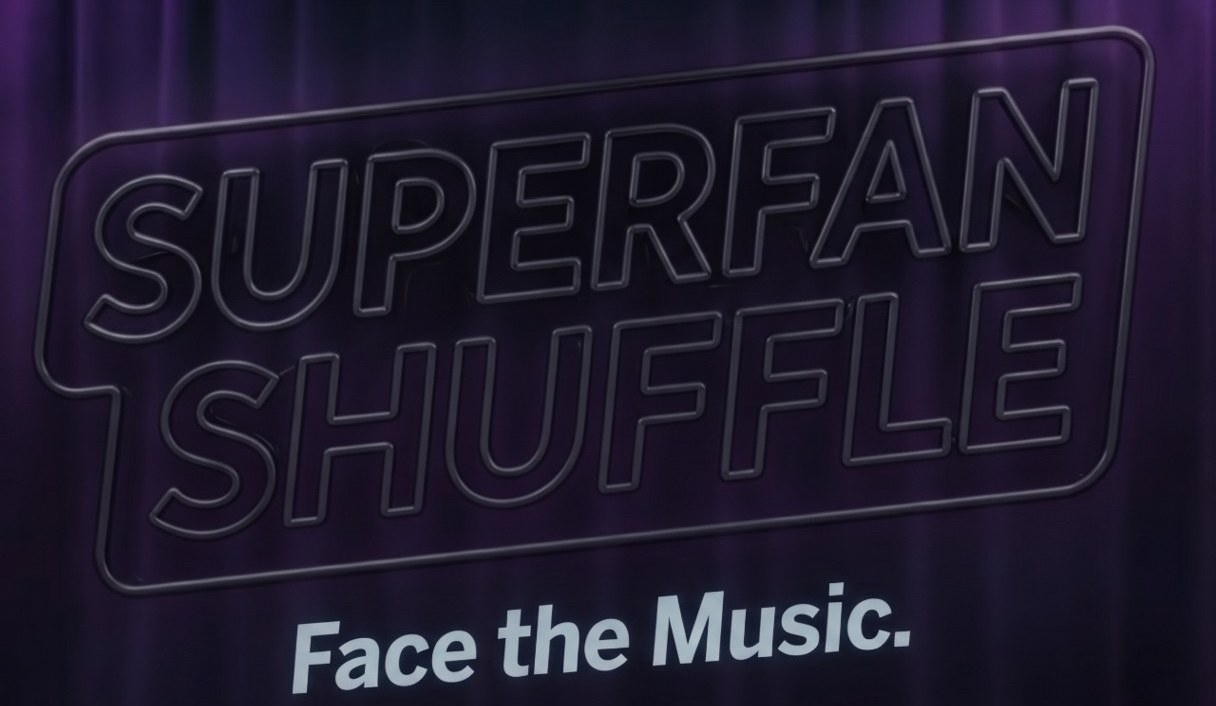
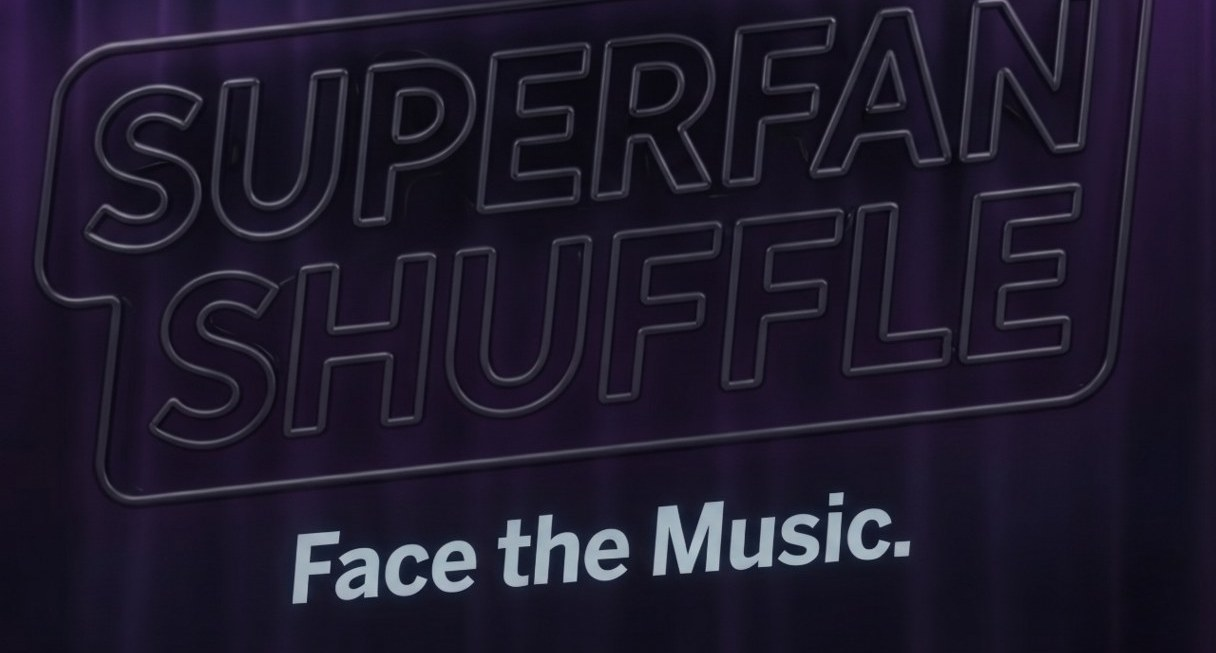
home: shorten neon header further (~32% vs original) — trim the large empty curtain ABOVE the box, keep tagline breathing room, thin bottom fade so 'Face the Music' isn't crowded

diff --git a/index.html b/index.html
@@ -22,11 +22,11 @@ body{overflow-y:auto;padding:0 0 80px}
 /* dark chrome header framing the lighter content */
 header{padding:16px 16px 8px;text-align:center;background:var(--chrome);box-shadow:0 6px 18px rgba(0,0,0,.35)}
 header#topbar{padding:0;overflow:hidden;position:relative;text-align:center;background:radial-gradient(120% 100% at 50% 0%,#2a1747,#1c0f38 70%,#150a2c)}
-.neon{position:relative;display:inline-block;vertical-align:top;width:min(88vw,440px);margin:0 auto;line-height:0}
+.neon{position:relative;display:inline-block;vertical-align:top;width:min(84vw,420px);margin:0 auto;line-height:0}
 .neon img{display:block;width:100%;height:auto}
 .neon .neon-unlit{position:absolute;inset:0;width:100%;height:100%;opacity:0;transition:opacity .07s linear}
 header#topbar:before{content:"";position:absolute;inset:0;z-index:2;pointer-events:none;background:linear-gradient(90deg,rgba(21,10,44,.55),rgba(21,10,44,0) 12%,rgba(21,10,44,0) 88%,rgba(21,10,44,.55))}
-header#topbar:after{content:"";position:absolute;left:0;right:0;bottom:0;height:46px;z-index:2;pointer-events:none;background:linear-gradient(to bottom,rgba(63,38,128,0),#3f2680)}
+header#topbar:after{content:"";position:absolute;left:0;right:0;bottom:0;height:18px;z-index:2;pointer-events:none;background:linear-gradient(to bottom,rgba(63,38,128,0),#3f2680)}
 .logo{display:inline-block;border:3px solid var(--mag);border-radius:22px;padding:8px 20px 11px;
  box-shadow:0 0 18px rgba(255,92,240,.55),inset 0 0 18px rgba(255,92,240,.25)}
 .logo b{display:block;font-family:var(--disp);letter-spacing:1px;line-height:.82;font-size:11.5vw;max-width:100%;transform:skewX(-6deg)}